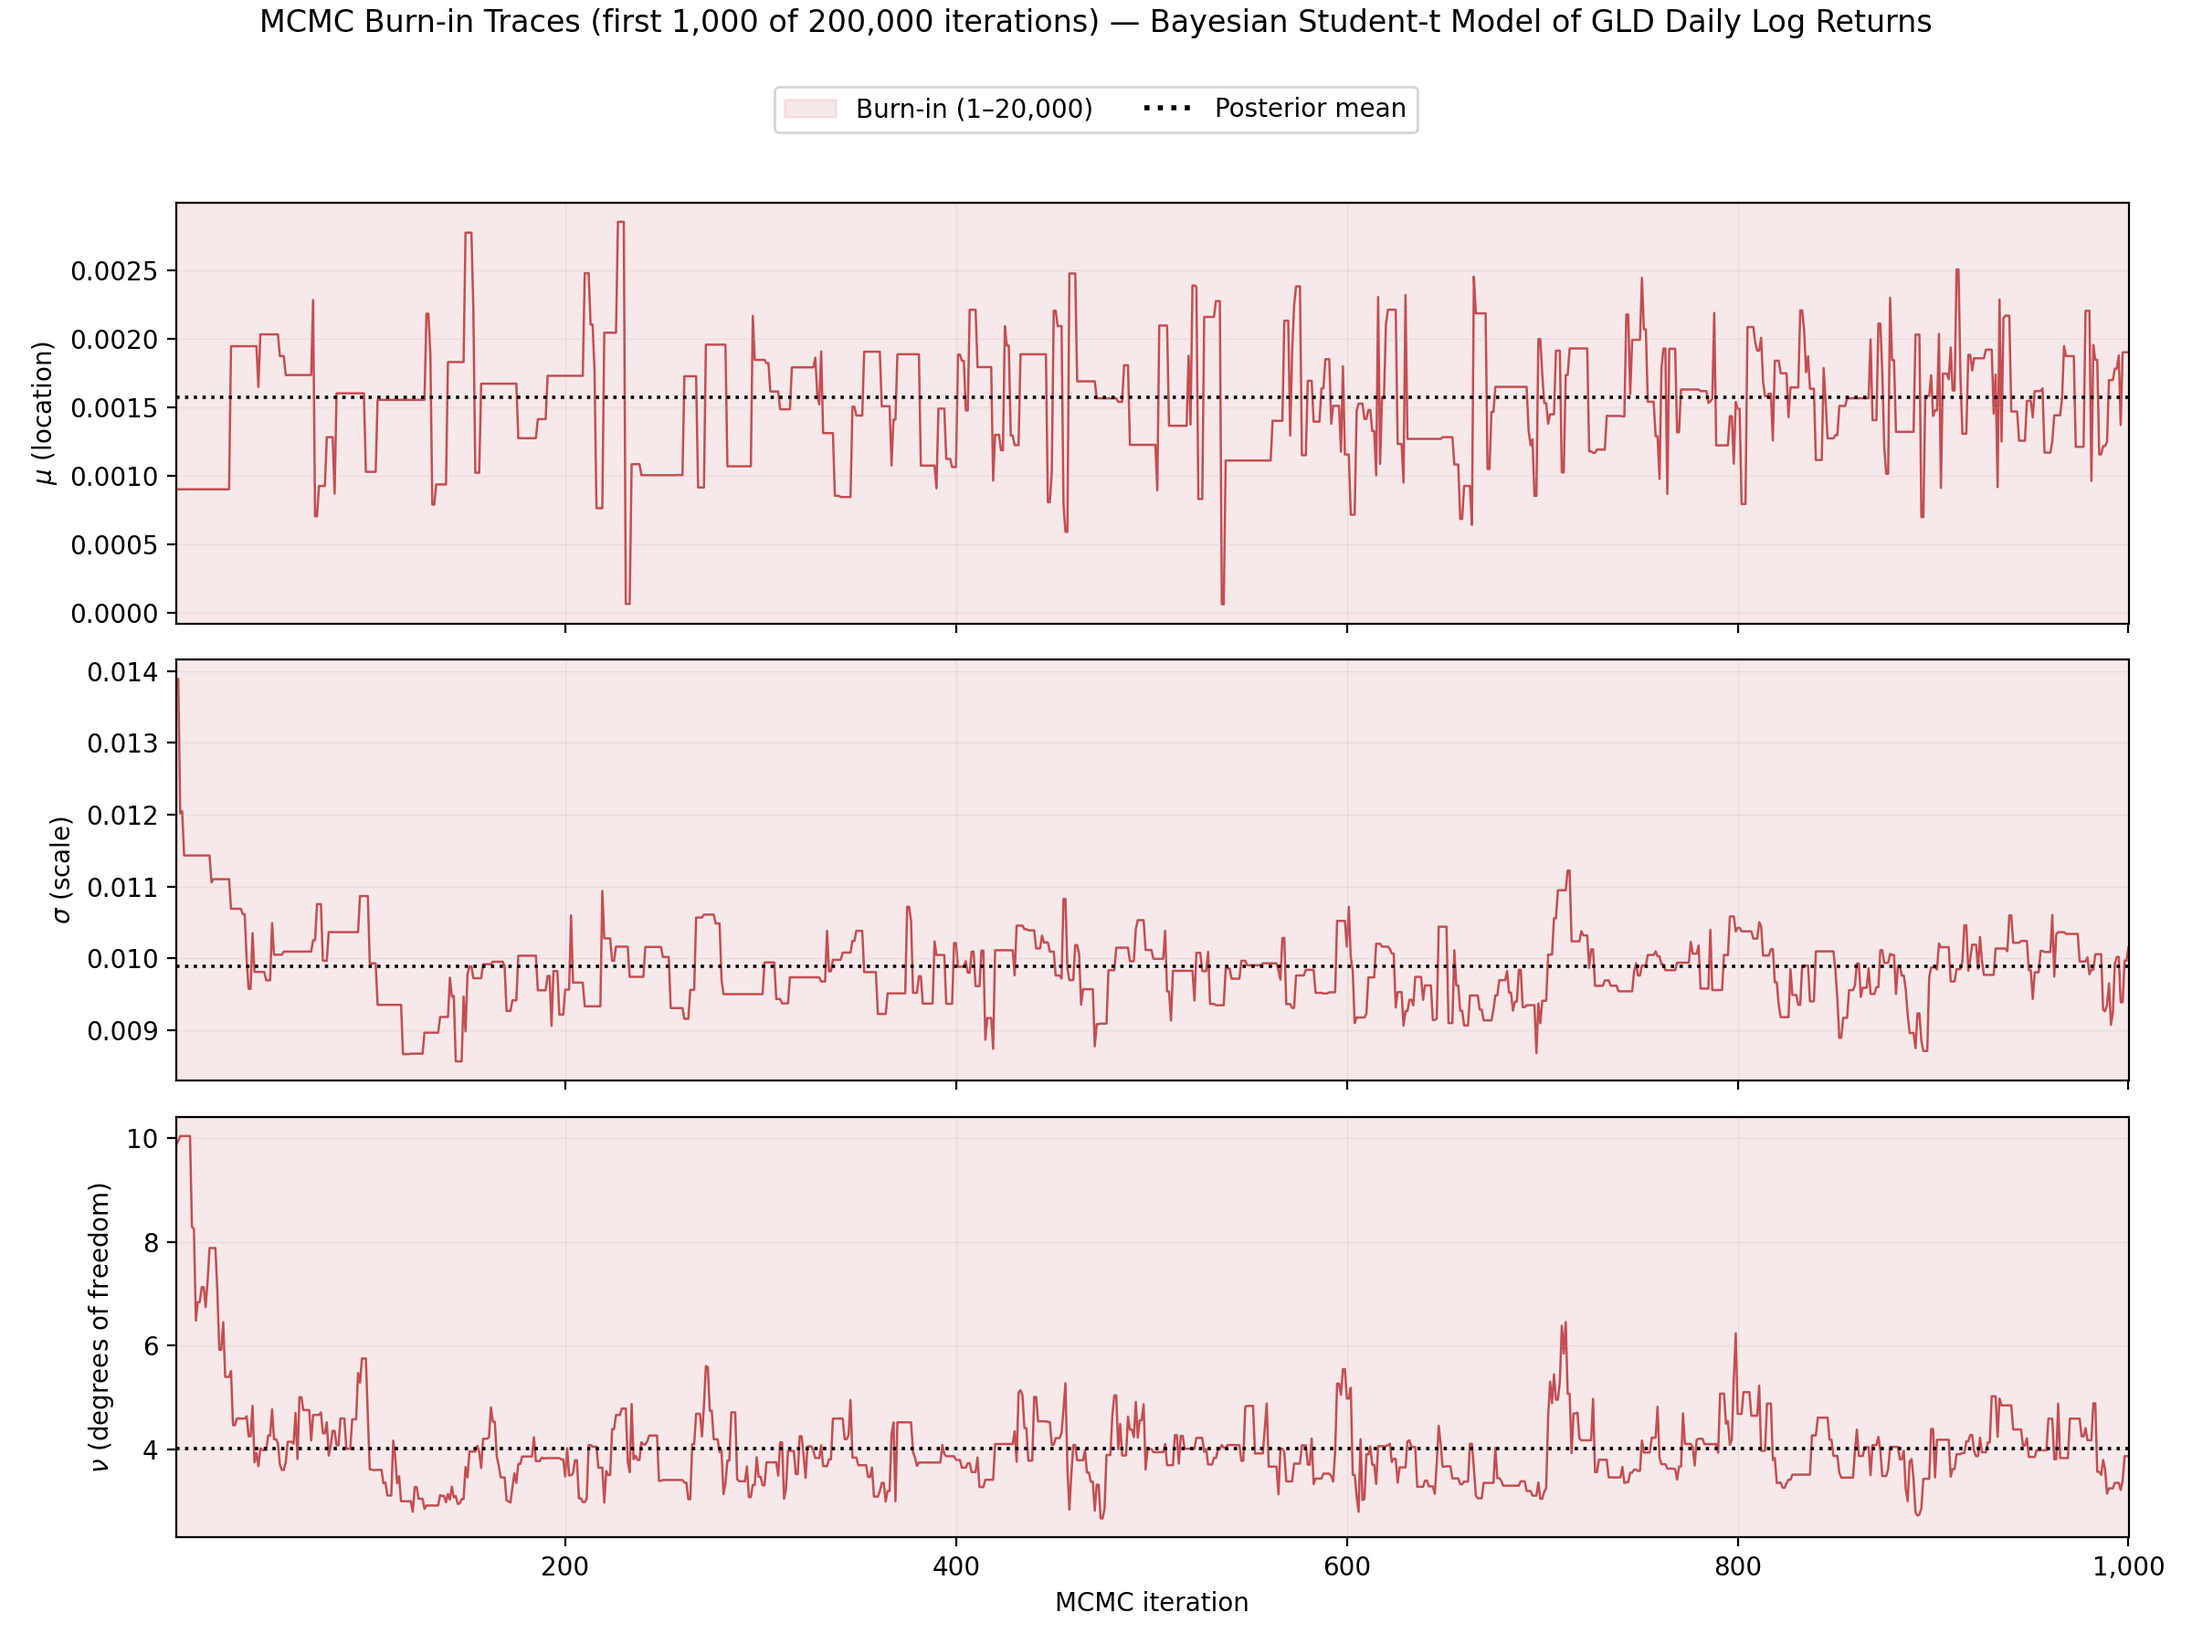
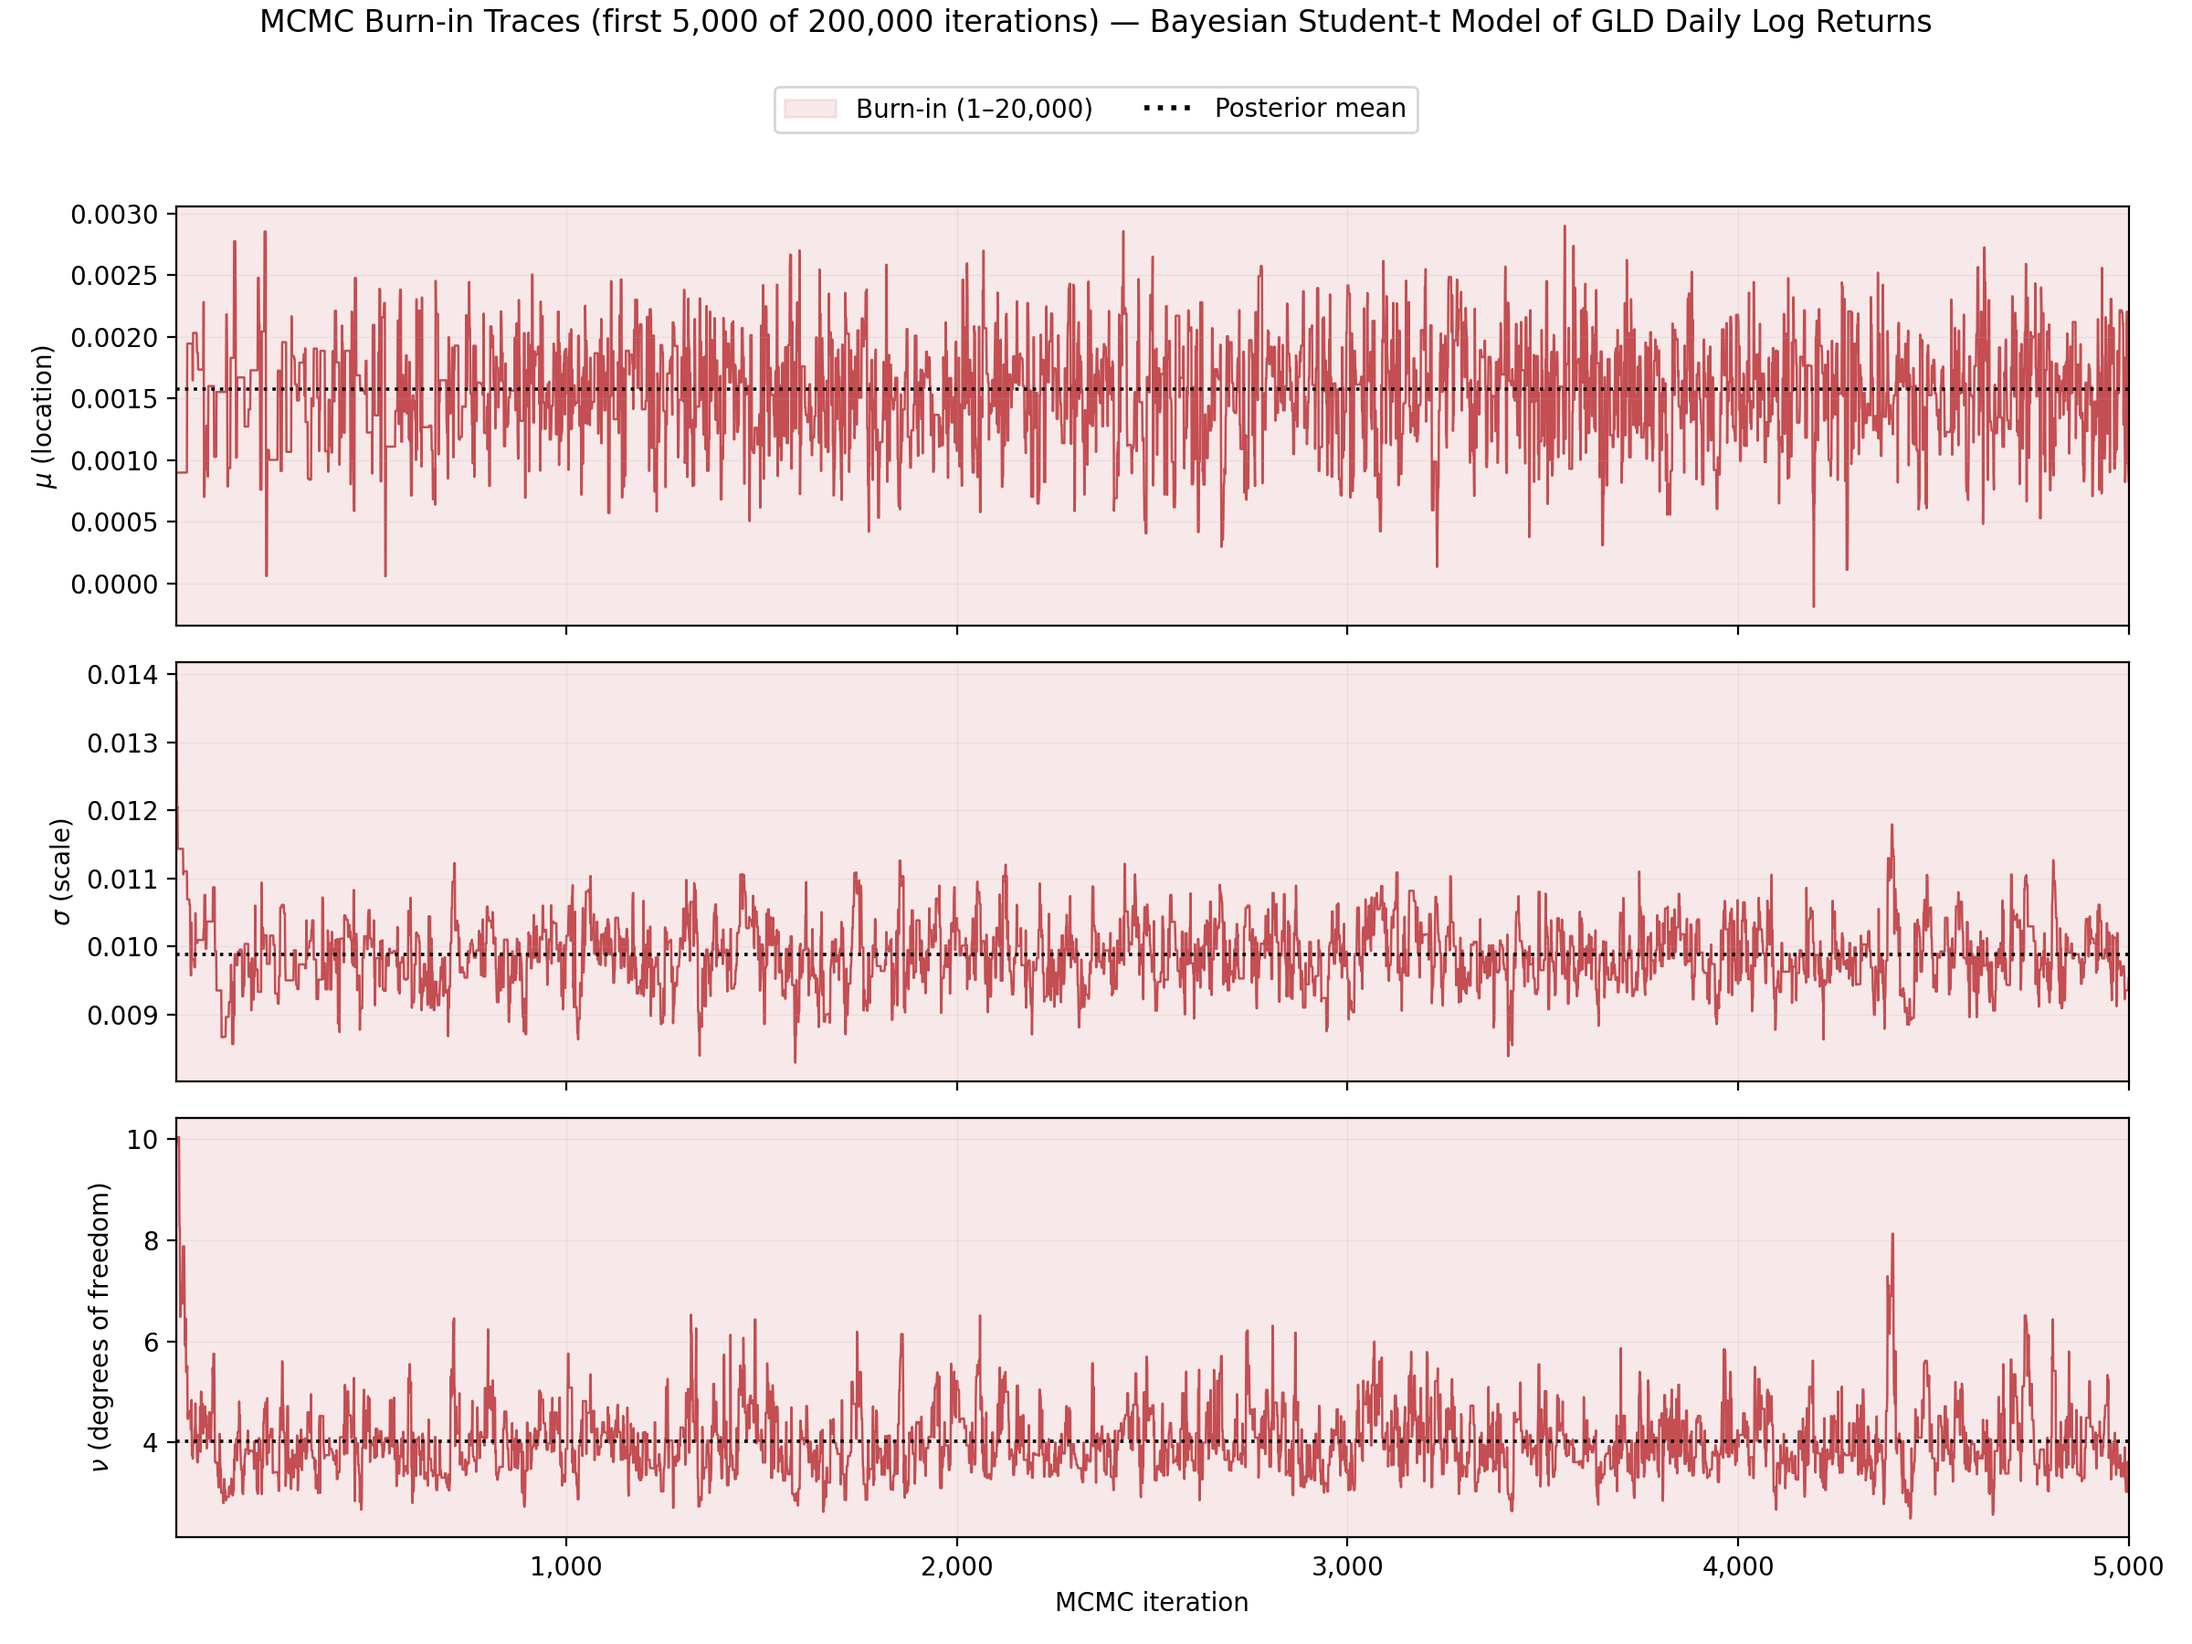
style: widen burn-in trace window from 1000 to 5000 iterations

diff --git a/src/run_mcmc.py b/src/run_mcmc.py
@@ -251,7 +251,7 @@ if __name__ == "__main__":
     # whole N_BURNIN window would render as a flat band and hide the very
     # transient this figure exists to show. Built from the in-memory chain
     # -- the CSVs hold only the retained (post-burn-in, thinned) sample.
-    BURNIN_SHOW = 1000
+    BURNIN_SHOW = 5000
     burnin_labels = {
         "mu": r"$\mu$ (location)",
         "sigma": r"$\sigma$ (scale)",
